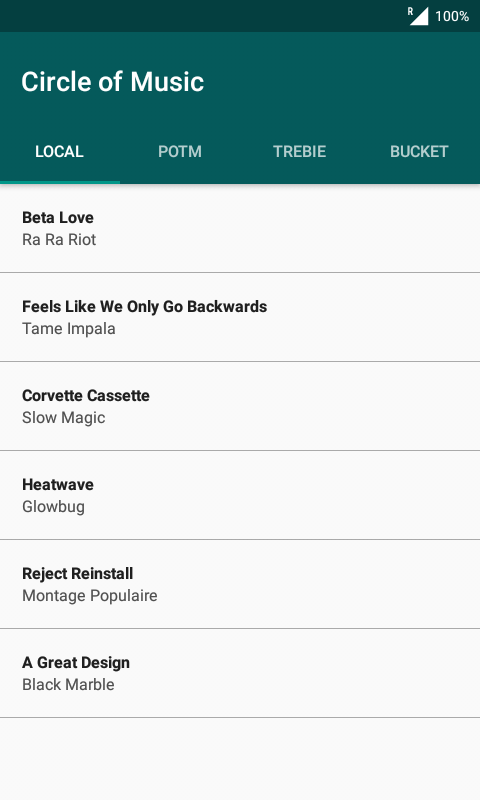
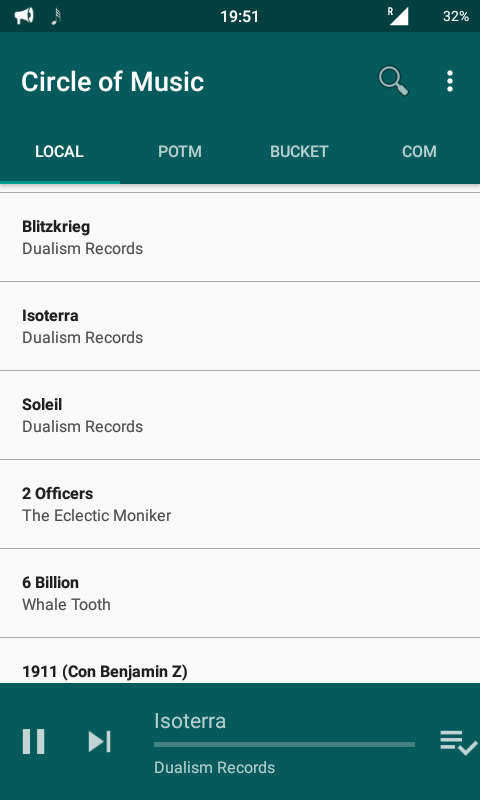
updated screenshots + readme , ready for v10

diff --git a/README.md b/README.md
@@ -1,8 +1,9 @@
 # Circle of Music Android App
-___
+
 ## About
 Circle of Music or CoM which we like to call it, is a music sharing application developed by Siddhant Gupta, Saumil Sachdeva, and Sameer Vaze.
 
 ## Screenshots
 ![Home](https://raw.githubusercontent.com/Circle-Of-Music-Makers/com-android/master/screenshots/home.png)
 ![Play of the Month](https://raw.githubusercontent.com/Circle-Of-Music-Makers/com-android/master/screenshots/potm.png)
+![CoM](https://raw.githubusercontent.com/Circle-Of-Music-Makers/com-android/master/screenshots/com.png)
